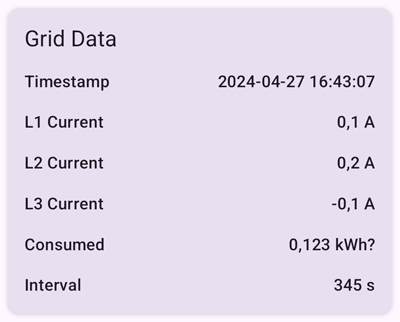
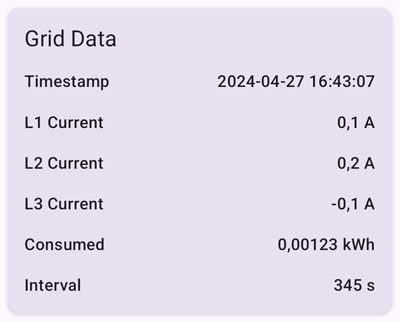
fix: corrected value for consumed field

diff --git a/app/src/main/java/be/cuypers_ghys/gaai/ui/device/DeviceDetailsScreen.kt b/app/src/main/java/be/cuypers_ghys/gaai/ui/device/DeviceDetailsScreen.kt
@@ -787,7 +787,7 @@ internal fun GaaiChargingGridDataCard(
           )
           Spacer(Modifier.weight(1f))
           Text(
-            text = "%.3f kWh?".format(chargingGridData.consumed.toFloat() / 1000.0),
+            text = "%.5f kWh".format(chargingGridData.consumed.toFloat() / 100000.0),
             style = MaterialTheme.typography.titleMedium
           )
         }
